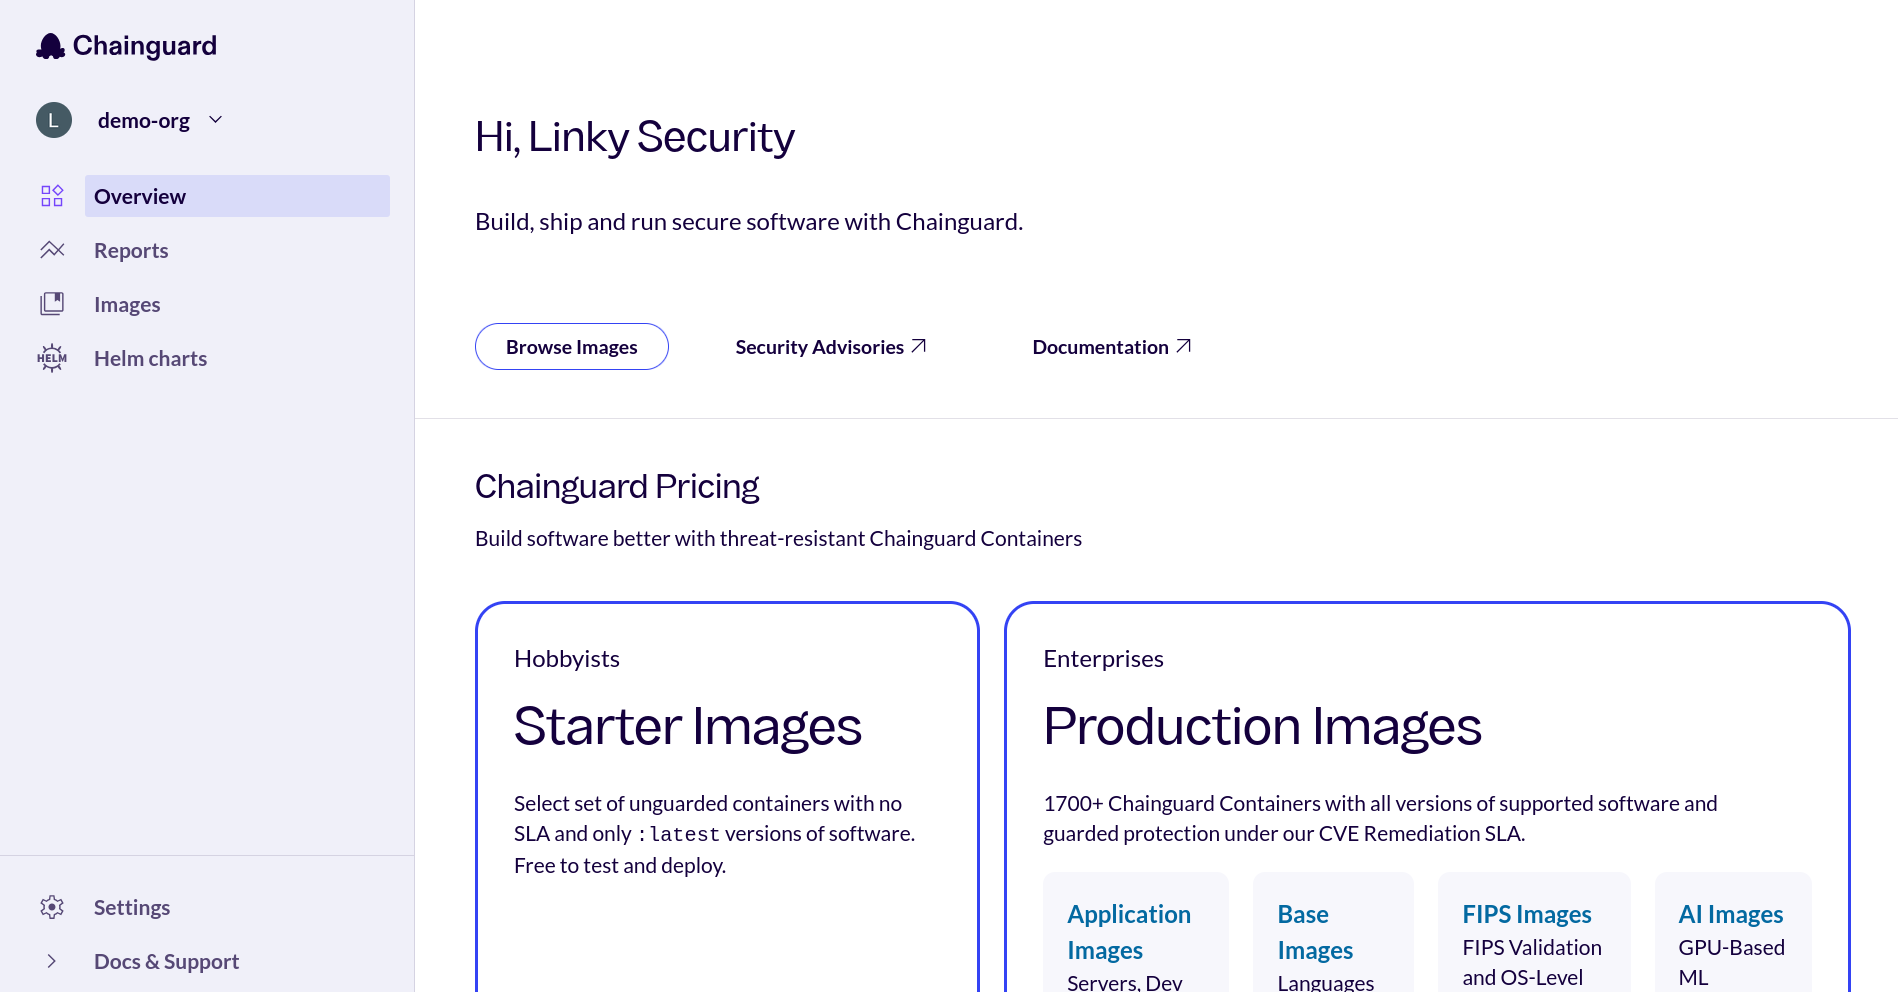
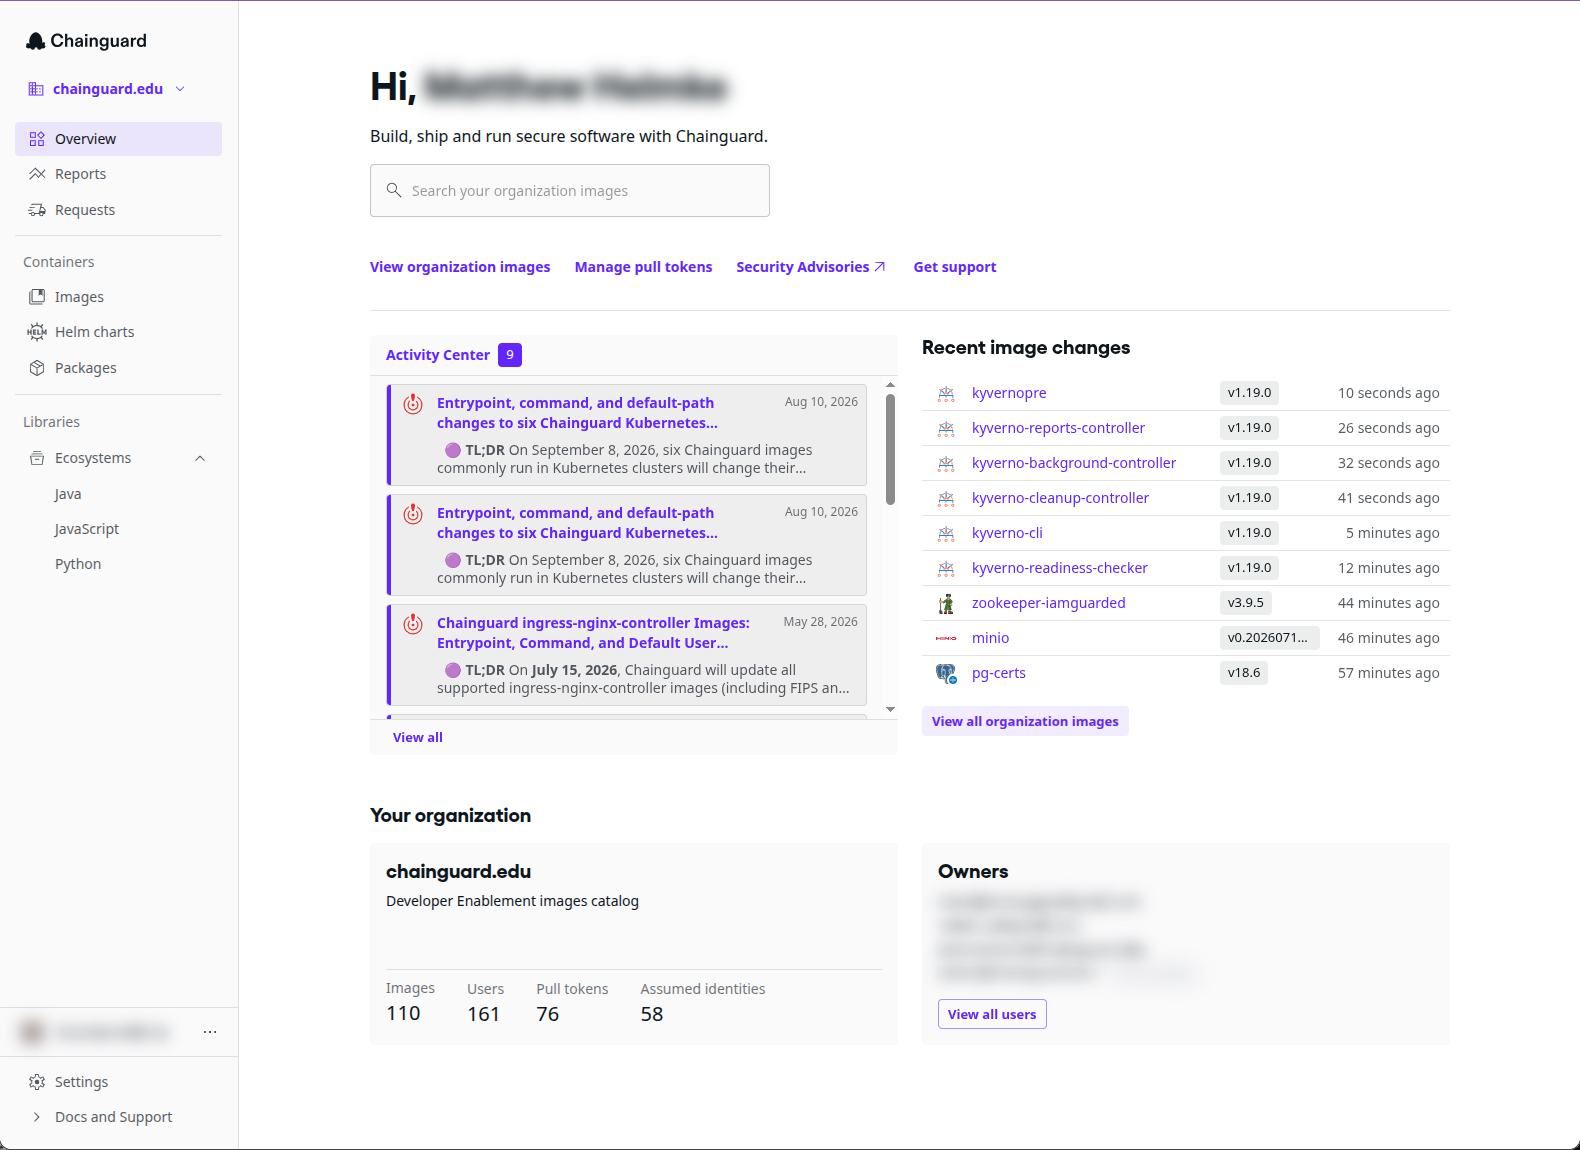
Trim console walkthrough to two anchor screenshots (DOCS-14) (#3813)
## What

Trims the "Using the Chainguard Console" walkthrough from **11
screenshots to 2**, and re-captures the two survivors fresh so they have
a long life.

This page carried more console screenshots than any other in the docs —
a walkthrough of a frequently-changing UI, which is the highest
screenshot-rot risk we have. Nine of the shots were per-tab or
per-column confirmation images whose content the surrounding text
already describes in full (catalog columns, SBOM columns, vulnerability
columns, and so on). Those are removed, and the prose that introduced
them is rewritten to stand on its own.

Part of the DOCS-14 screenshot audit.

## Screenshots removed (9)

`notifications-inapp`, `imgs-dir-B` (catalog table), `imgs-dir-C` (org
status column), `imgs-dir-F` (Specifications tab), `imgs-dir-G` (SBOM
tab), `imgs-dir-H` (Vulnerabilities tab), `imgs-dir-I` (expanded
vulnerability row), `helm-charts-in-console`, and `packages-in-console`.

Removing `packages-in-console` also clears a copy-pasted alt-text bug:
its alt read "Screenshot showing Helm charts listed in the Chainguard
Console" even though it showed the Packages page.

## Screenshots kept and re-captured (2)

Two orientation anchors remain, re-shot fresh:

- **`imgs-dir-A`** — the Console Overview page.
- **`imgs-dir-E`** — a container details page (Tags tab), now using the
evergreen `go` image instead of `argocd`.

Both new captures are deliberately durable: no console version number,
[…]

diff --git a/content/platform/console/images-directory/index.md b/content/platform/console/images-directory/index.md
@@ -7,7 +7,7 @@ aliases:
 type: "article"
 description: "A walkthrough of the Chainguard Console."
 date: 2024-02-23T11:07:52+02:00
-lastmod: 2026-07-24T15:09:10+00:00
+lastmod: 2026-08-20T18:34:01+00:00
 draft: false
 tags: ["Chainguard Containers"]
 images: []
@@ -38,22 +38,16 @@ Learn more browsing Chainguard Libraries in the console on the [Libraries browsi
 
 ## Browse container images and details in the Console
 
-After signing in to the [Chainguard Console](https://console.chainguard.dev), your browser will take you to the Overview page. The following screenshot shows the Overview Page for an organization that hasn't paid for access to any container images:
+After signing in to the [Chainguard Console](https://console.chainguard.dev), your browser will take you to the Overview page:
 
-<center><img src="imgs-dir-A.png" alt="Screenshot showing the Chainguard Console's Overview page." style="width:1100px;"></center>
+<center><img src="/platform/console/images-directory/imgs-dir-A.png" alt="Screenshot showing the Chainguard Console's Overview page." style="width:1100px;"></center>
 <br />
 
 If your organization and account have [Chainguard Notifications](/platform/console/use-chainguard-notifications/) enabled, you will see the **Activity Center** on the page where notifications from Chainguard will occasionally be shown.
 
-<center><img src="notifications-inapp.png" alt="Screenshot showing a test notification in the Chainguard Notifications box on the Chainguard Console's Overview page." style="width:1100px;"></center>
-<br />
-
 Click **Images** in the left-hand navigation. By default, takes you to the **Organization** images tab. If you're part of an organization, you may have access to private Chainguard Containers (or *Production Containers*) that can be found here.
 
-Navigate to the **Chainguard catalog** tab. There, you'll be presented with a list of all of Chainguard's available images:
-
-<center><img src="imgs-dir-B.png" alt="Screenshot of the public container images directory in the Console. The table is sorted by the 'Updated' column in descending order, meaning that the most recently updated container images are shown first." style="width:1100px;"></center>
-<br />
+Navigate to the **Chainguard catalog** tab. There, you'll be presented with a list of all of Chainguard's available images.
 
 The **Chainguard catalog** tab has a table with four columns:
 
@@ -64,10 +58,7 @@ The **Chainguard catalog** tab has a table with four columns:
 
 Note that if your organization has signed up for catalog pricing, there will be another column containing buttons labeled **Add to org**, allowing you to provision Chainguard Containers independently without having to reach out to Chainguard. Check out our doc on [Chainguard container catalog pricing](/chainguard/containers/about/pricing/) for more information.
 
-The **Organization** tab doesn't have a **Description** column, but has two additional columns. The first of these, labeled **Status** specifies what resources an organization has purchased and has access to. This column can show one of two possible values: **Active**, meaning that your organization is able to download and use the container image, or **Expired**, meaning that your organization had access to the container image in the past but not anymore:
-
-<center><img src="imgs-dir-C.png" alt="Screenshot showing a portion of an Organization container images directory, including the 'Status' column. This example shows five container: metrics-server, a customized metrics-server image, mongodb, nginx, and node." style="width:700px;"></center>
-<br />
+The **Organization** tab doesn't have a **Description** column, but has two additional columns. The first of these, labeled **Status** specifies what resources an organization has purchased and has access to. This column can show one of two possible values: **Active**, meaning that your organization is able to download and use the container image, or **Expired**, meaning that your organization had access to the container image in the past but not anymore.
 
 The other additional column is labeled **Pull URL**, and contains a URL you can use to pull the given image, as in a `docker pull` command.
 
@@ -79,10 +70,10 @@ Above the table is a search box you can use to find specific container images by
 
 Next, let's inspect an individual container image. Click on any container image you'd like:
 
-<center><img src="imgs-dir-E.png" alt="Screenshot of the Container Details page for the argocd image, showing the 'Tags' tab." style="width:1100px;"></center>
+<center><img src="/platform/console/images-directory/imgs-dir-E.png" alt="Screenshot of the Container Details page for the go image, showing the 'Tags' tab." style="width:1100px;"></center>
 <br />
 
-This example shows the details page for `argocd` in the Console.
+This example shows the details page for `go` in the Console.
 
 Each container image details page has several tabs that provide information about various facets of the given image.
 
@@ -117,15 +108,9 @@ The **Specifications** tab is where you can find a number of important details a
 
 It also shows the container image's **Raw configuration**, which includes many of these details as well as its OCI labels (similar to [annotations](/chainguard/containers/overview/#annotations)).
 
-<center><img src="imgs-dir-F.png" alt="Screenshot showing the 'Specifications' tab for the argocd image." style="width:1100px;"></center>
-<br />
-
 ### SBOM
 
 The **SBOM** tab contains a list of packages in the image. Chainguard Containers are built so that everything contained in the image is a package, meaning that this package list gives a complete view of what's in the container image. You won't find anything hidden in the image that isn't listed in its SBOM tab.
-
-<center><img src="imgs-dir-G.png" alt="Screenshot of the argocd container image's 'SBOM' tab, showing four rows of the latest version's SBOM." style="width:1100px;"></center>
-<br />
 
 The table listing an image's packages has six columns.
 
@@ -148,10 +133,7 @@ The **Vulnerabilities** tab contains a list of every CVE one can find within the
 
 Below these is a table listing the vulnerabilities. However, most Chainguard Containers won't show any vulnerabilities for the `latest` version. This isn't an error, as we aim to remove vulnerabilities from images as soon as they arise.
 
-To illustrate how this table appears when vulnerabilities are actually present, you can select different versions in the drop-down until you find one with a vulnerability. This example shows the vulnerabilities in version `3.1.7` of the `argocd` image.
-
-<center><img src="imgs-dir-H.png" alt="Screenshot of the argocd image's 'Vulnerabilities' tab, with '3.1.7' selected in the Tag drop-down menu. The table shows four rows, all highlighting the same vulnerability (CVE-2025-30258) but associated with different packages: gnupg, gnupg-gpgconf, gpg, and gpg-agent." style="width:1100px;"></center>
-<br />
+To illustrate how this table appears when vulnerabilities are actually present, you can select different versions in the drop-down until you find one with a vulnerability.
 
 The Vulnerabilities table has five columns.
 
@@ -162,9 +144,6 @@ The Vulnerabilities table has five columns.
 * **Last detected**: the date and time when the vulnerability last appeared in a scan of the container image
 
 To the left of each row in the table is down-pointing chevron (**˅**). Clicking on this expands the row to show more information about the given vulnerability.
-
-<center><img src="imgs-dir-I.png" alt="Screenshot showing the expanded view of the 'CVE-2025-30258' vulnerability. This expanded view includes a brief description of the CVE as well as some reference links." style="width:1100px;"></center>
-<br />
 
 Specifically, this highlights the **Package** name and **Version** number of the package associated with the vulnerability. It also shows the **Fixed version** of the package, a brief **Description** of the vulnerability, and one or more **References** you can review to learn more about the vulnerability.
 
@@ -190,17 +169,11 @@ You can find these charts and information about them in the Chainguard Console. 
 
 Charts with the **shield** icon are iamguarded charts, created specifically to help people who are switching from Bitnami.
 
-<center><img src="helm-charts-in-console.png" alt="Screenshot showing Helm charts listed in the Chainguard Console."></center>
-<br />
-
 Click any chart name to learn the chart details.
 
 ### Find packages in the Chainguard Console
 
 You can find a list of packages available to your organization in the Chainguard Console. Click **Packages** in the sidebar menu to open the Packages page to view and search across the list of APK packages that are available to you via the Chainguard-provided private APK repository for your organization.
-
-<center><img src="packages-in-console.png" alt="Screenshot showing Helm charts listed in the Chainguard Console."></center>
-<br />
 
 Click a package name to reveal more details about the package. Use the **Architecture** dropdown to select which option to display.
 
